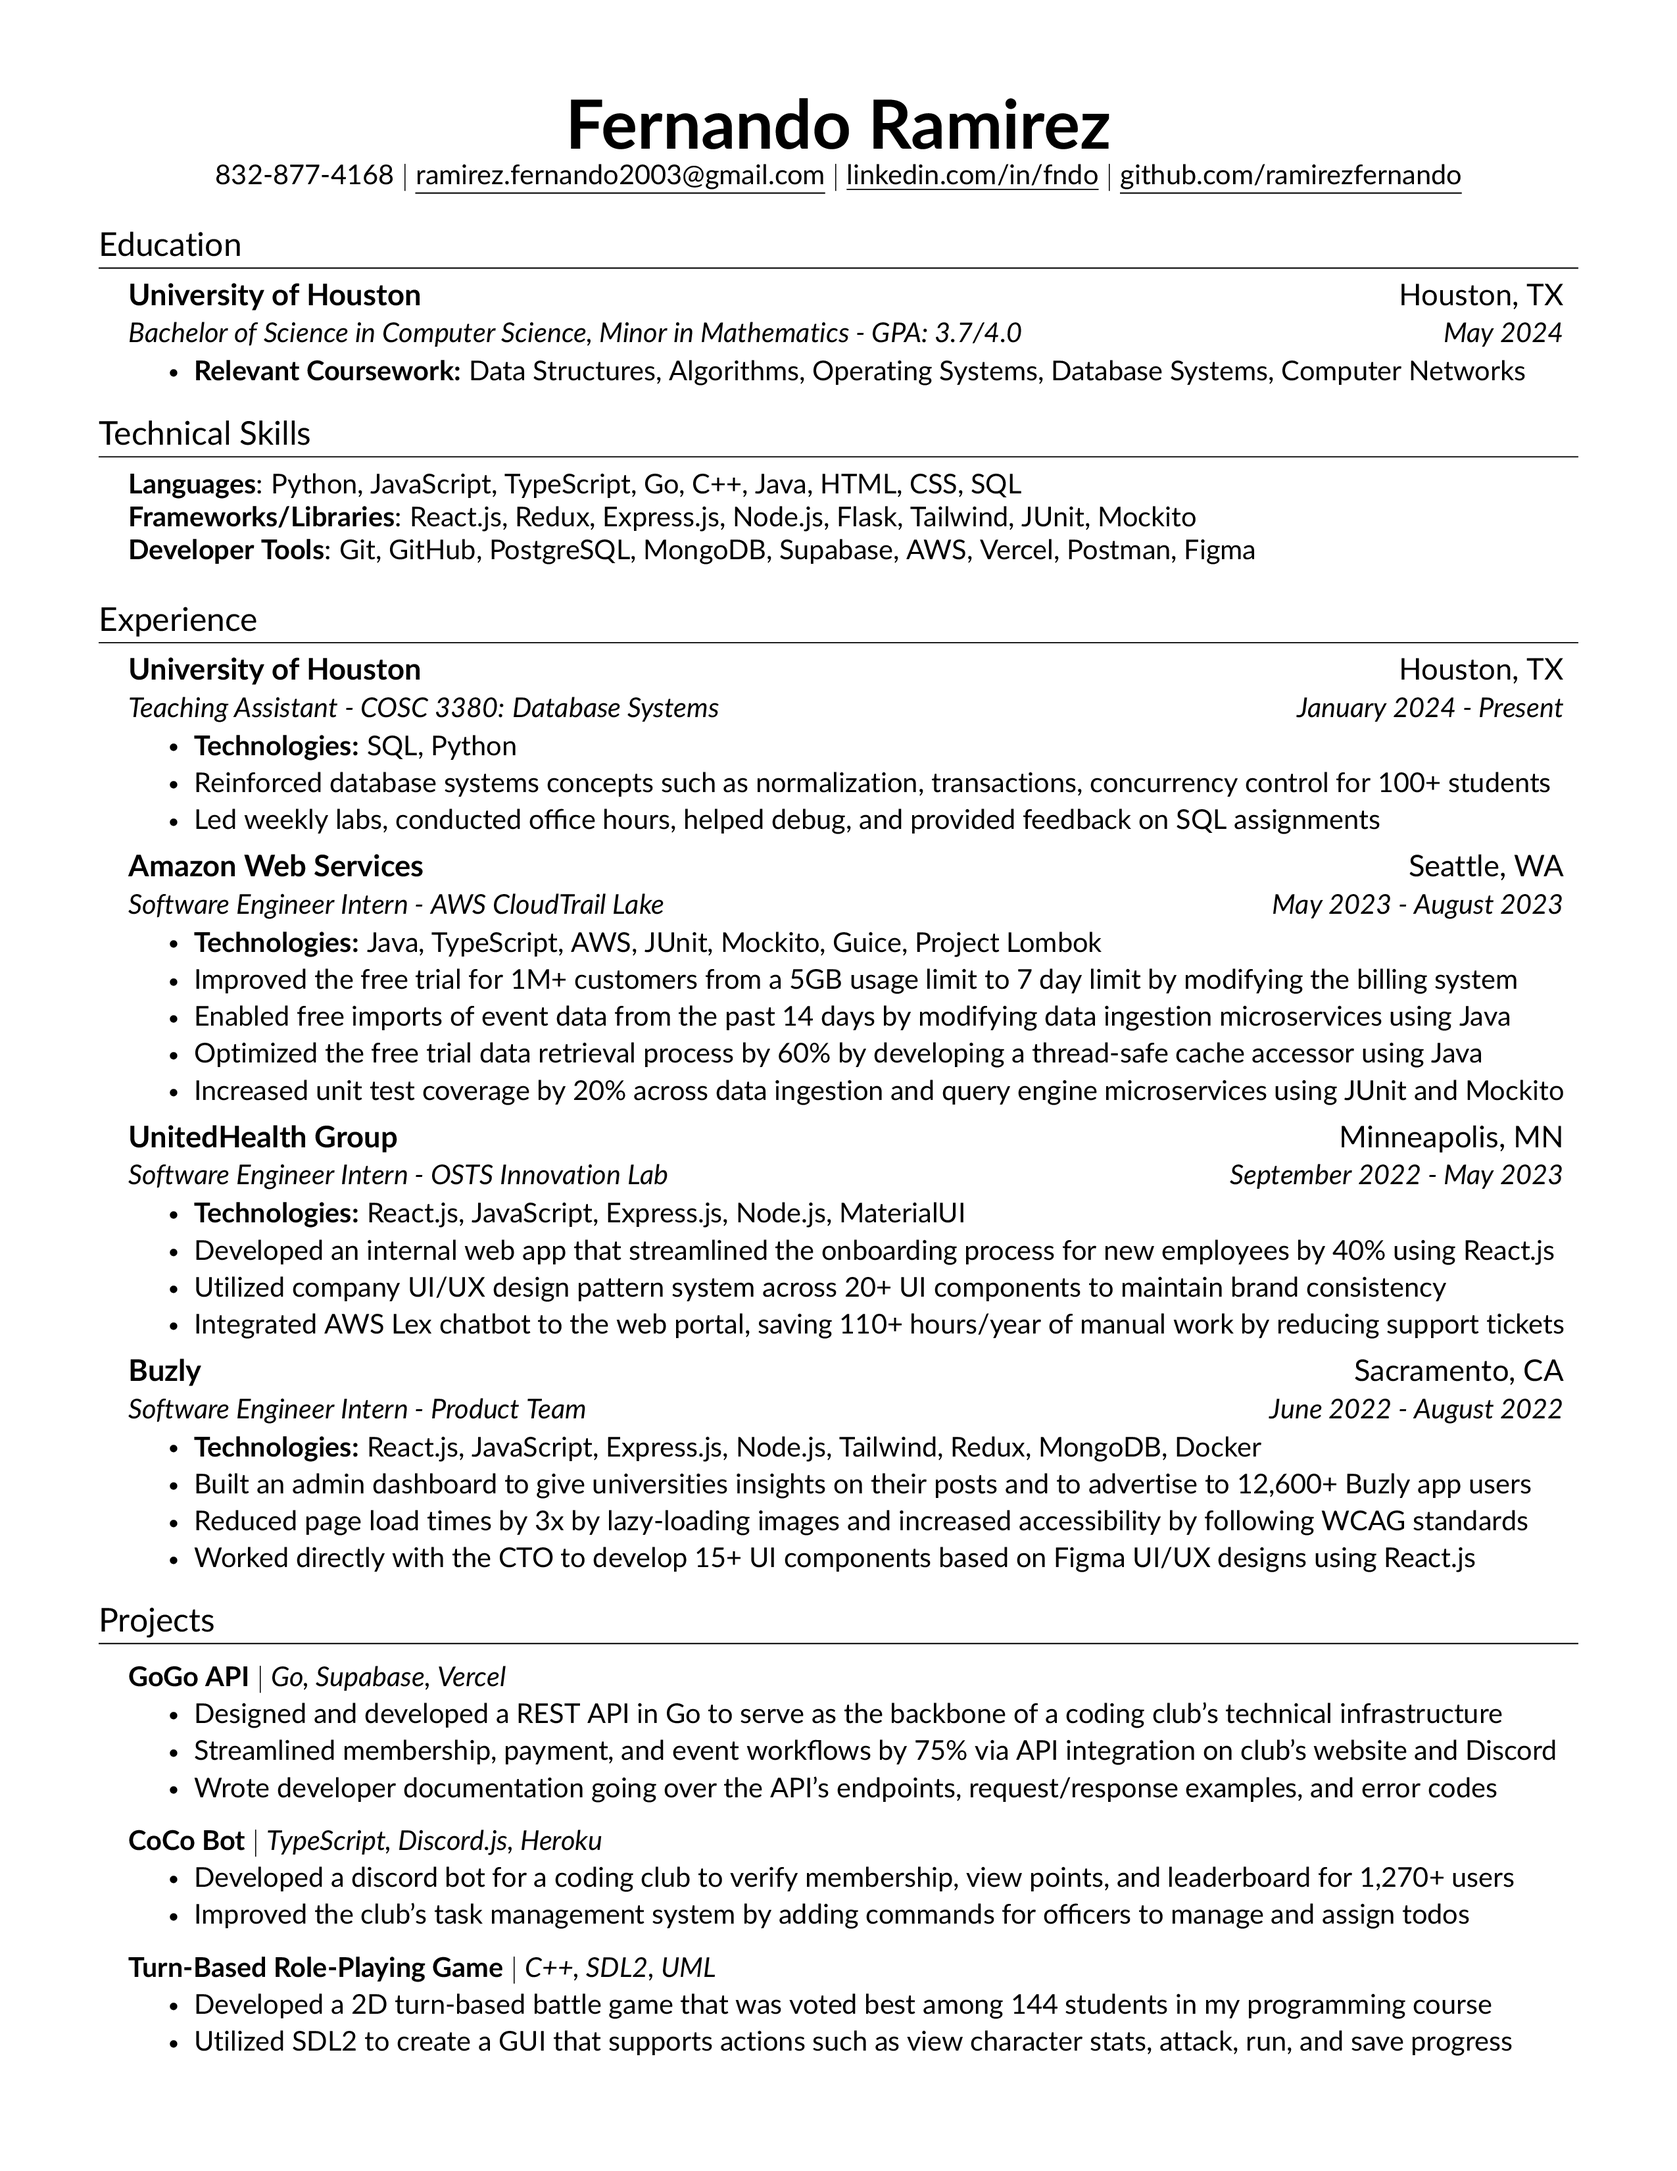
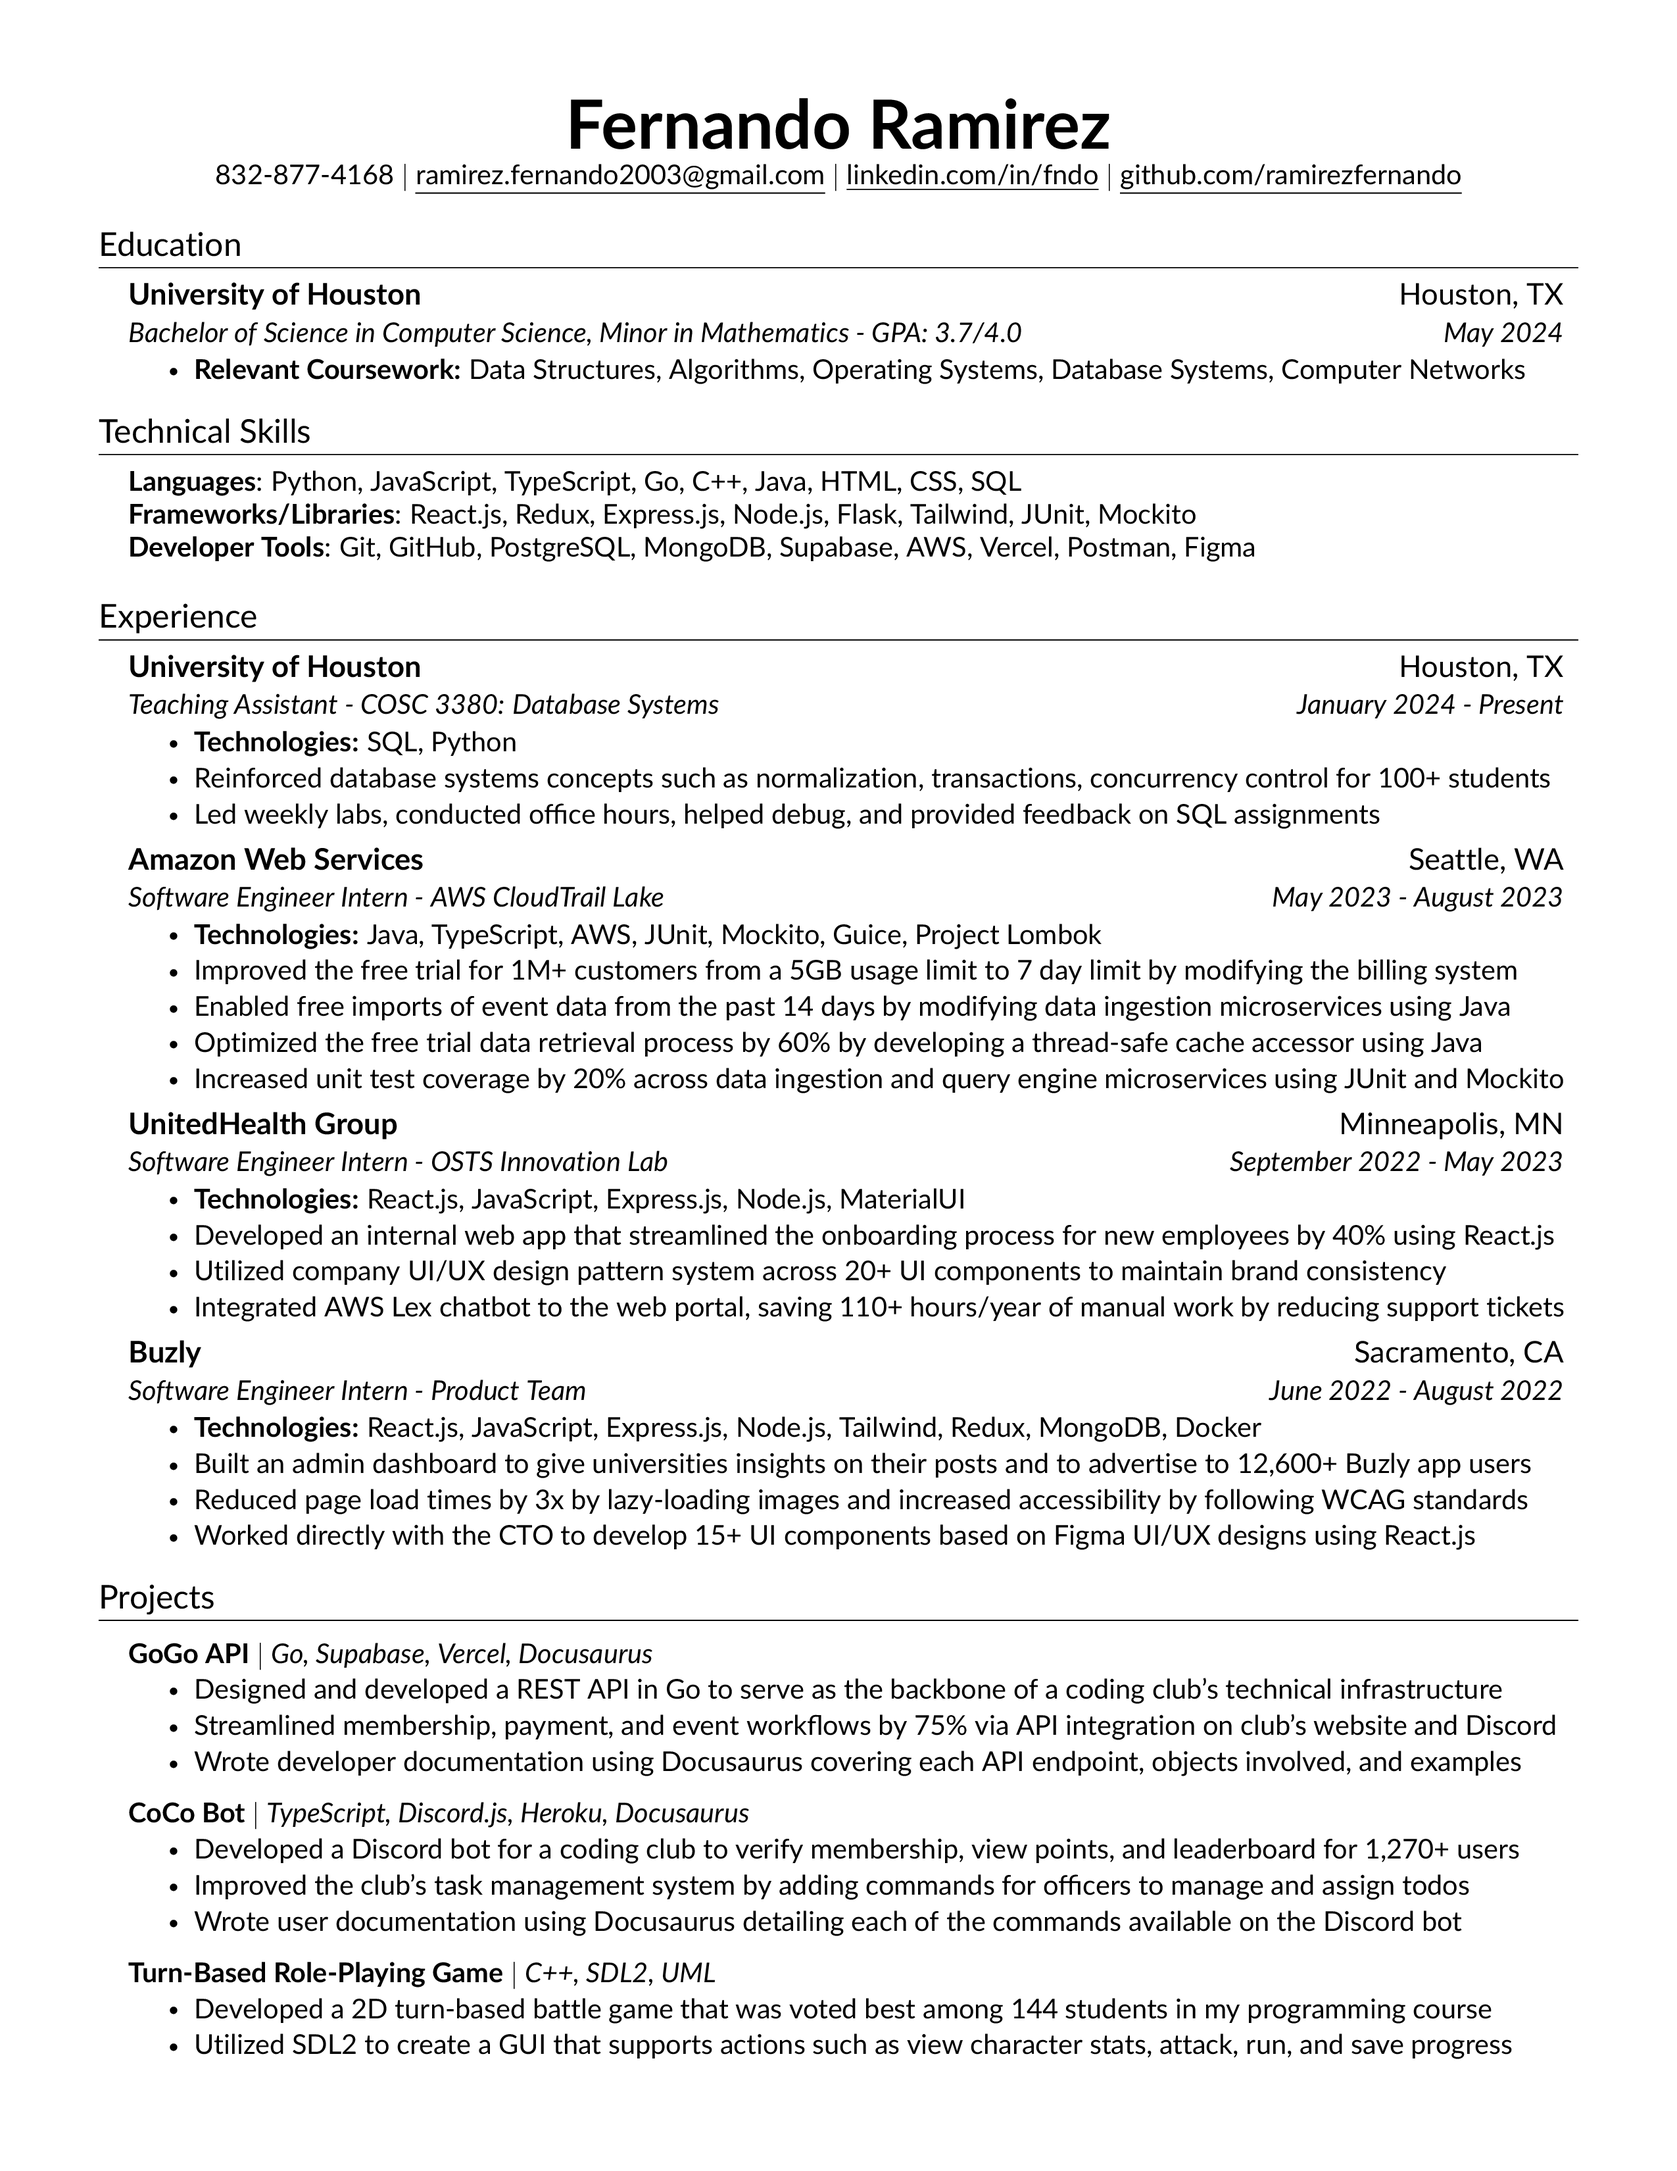
update projects

diff --git a/src/components/projects.tex b/src/components/projects.tex
@@ -3,18 +3,19 @@
 \resumeSubHeadingListStart
 
     \resumeProjectHeading
-    {\textbf{GoGo API} $|$ \emph{Go, Supabase, Vercel}}{}
+    {\textbf{GoGo API} $|$ \emph{Go, Supabase, Vercel, Docusaurus}}{}
     \resumeItemListStart
         \resumeItem{Designed and developed a REST API in Go to serve as the backbone of a coding club's technical infrastructure}
         \resumeItem{Streamlined membership, payment, and event workflows by 75\% via API integration on club's website and Discord}
-        \resumeItem{Wrote developer documentation going over the API's endpoints, request/response examples, and error codes}
+        \resumeItem{Wrote developer documentation using Docusaurus covering each API endpoint, objects involved, and examples}
     \resumeItemListEnd
 
     \resumeProjectHeading
-    {\textbf{CoCo Bot} $|$ \emph{TypeScript, Discord.js, Heroku}}{}
+    {\textbf{CoCo Bot} $|$ \emph{TypeScript, Discord.js, Heroku, Docusaurus}}{}
     \resumeItemListStart
-        \resumeItem{Developed a discord bot for a coding club to verify membership, view points, and leaderboard for 1,270+ users}
+        \resumeItem{Developed a Discord bot for a coding club to verify membership, view points, and leaderboard for 1,270+ users}
         \resumeItem{Improved the club's task management system by adding commands for officers to manage and assign todos}
+        \resumeItem{Wrote user documentation using Docusaurus detailing each of the commands available on the Discord bot}
     \resumeItemListEnd
 
     \resumeProjectHeading
